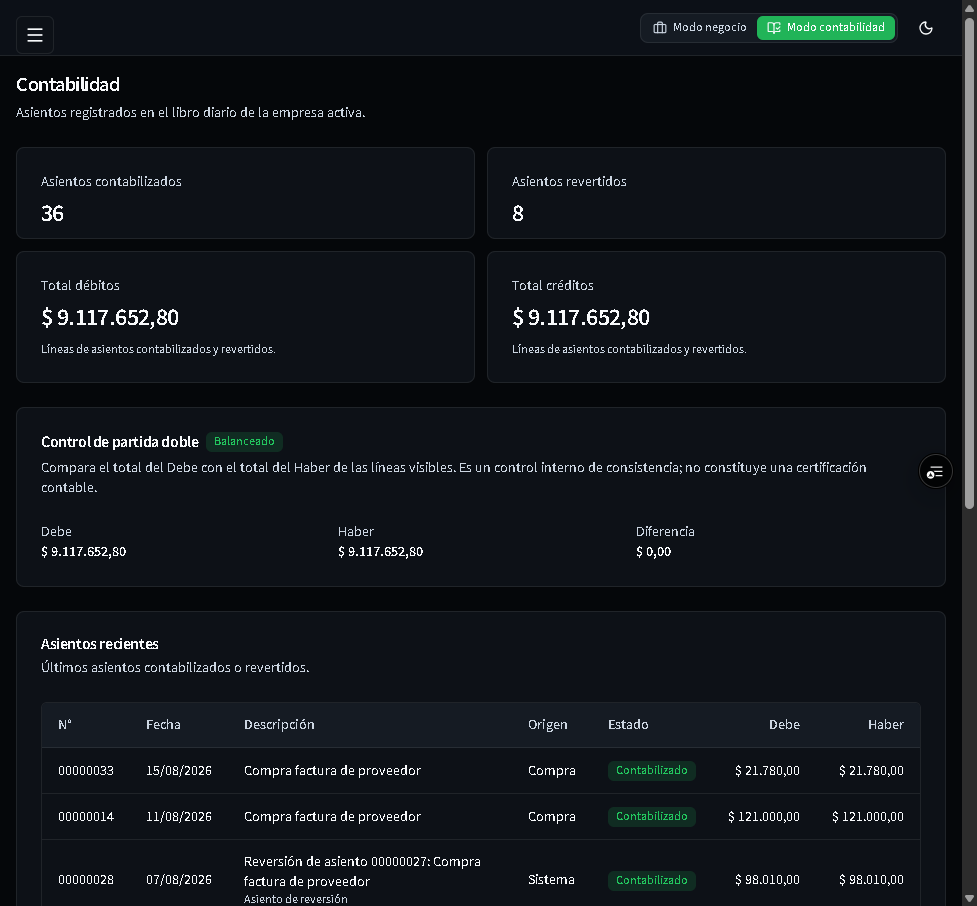
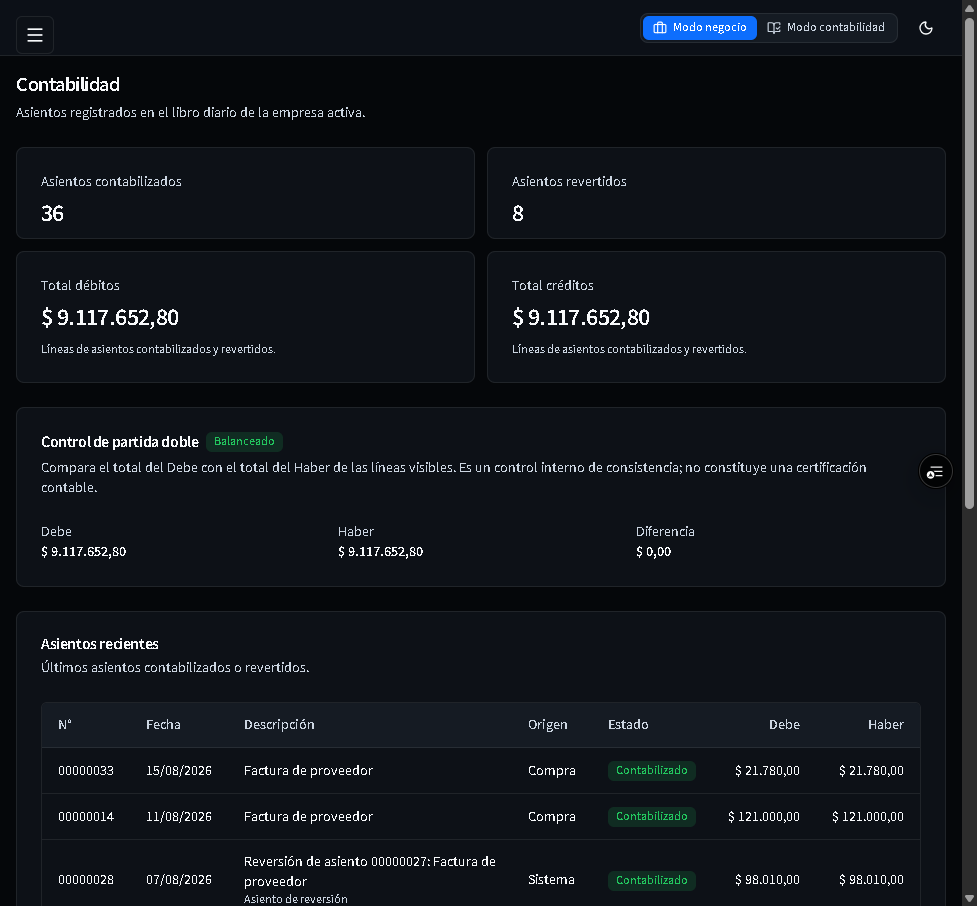
fix(company): honest empty states and load errors; refresh manual screenshots

diff --git a/src/app/(app)/company/page.tsx b/src/app/(app)/company/page.tsx
@@ -8,10 +8,15 @@ import {
   type BusinessType,
   type MemberRole,
 } from "@/config/features";
+import { Card, CardContent, CardDescription, CardHeader, CardTitle } from "@/components/ui/card";
+import { LoadError } from "@/components/demo/module-ui";
+import { formatCuit } from "@/lib/validations/argentina";
 
 const NOT_LOADED = <span className="text-muted-foreground italic">Sin cargar</span>;
-import { Card, CardContent, CardDescription, CardHeader, CardTitle } from "@/components/ui/card";
-import { formatCuit } from "@/lib/validations/argentina";
+
+function yesNo(value: boolean | null | undefined) {
+  return value ? "Sí" : "No";
+}
 
 export default async function CompanyPage() {
   const supabase = await createClient();
@@ -37,17 +42,30 @@ export default async function CompanyPage() {
 
   if (!orgId) redirect("/onboarding");
 
-  const [{ data: org }, { data: fiscal }, { data: business }, { data: branches }] =
-    await Promise.all([
-      supabase.from("organizations").select("*").eq("id", orgId).single(),
-      supabase
-        .from("fiscal_profiles")
-        .select("*, fiscal_conditions ( name_business )")
-        .eq("organization_id", orgId)
-        .maybeSingle(),
-      supabase.from("business_profiles").select("*").eq("organization_id", orgId).maybeSingle(),
-      supabase.from("branches").select("*").eq("organization_id", orgId),
-    ]);
+  const [
+    { data: org, error: orgError },
+    { data: fiscal, error: fiscalError },
+    { data: business, error: businessError },
+    { data: branches, error: branchesError },
+  ] = await Promise.all([
+    supabase.from("organizations").select("*").eq("id", orgId).single(),
+    supabase
+      .from("fiscal_profiles")
+      .select("*, fiscal_conditions ( name_business )")
+      .eq("organization_id", orgId)
+      .maybeSingle(),
+    supabase.from("business_profiles").select("*").eq("organization_id", orgId).maybeSingle(),
+    supabase.from("branches").select("*").eq("organization_id", orgId),
+  ]);
+
+  for (const [scope, error] of [
+    ["organization", orgError],
+    ["fiscal_profile", fiscalError],
+    ["business_profile", businessError],
+    ["branches", branchesError],
+  ] as const) {
+    if (error) console.error("[company] query failed", { scope, code: error.code });
+  }
 
   const role = membership?.find((m) => m.organization_id === orgId)?.role as
     | MemberRole
@@ -64,32 +82,42 @@ export default async function CompanyPage() {
 
       <Card>
         <CardHeader>
-          <CardTitle>{org?.legal_name}</CardTitle>
-          <CardDescription>{org?.commercial_name || "Sin nombre comercial"}</CardDescription>
+          <CardTitle>{org?.legal_name ?? "Datos de la empresa"}</CardTitle>
+          {org ? (
+            <CardDescription>{org.commercial_name || "Sin nombre comercial"}</CardDescription>
+          ) : null}
         </CardHeader>
-        <CardContent className="grid gap-2 text-sm sm:grid-cols-2">
-          <p>
-            <span className="text-muted-foreground">CUIT:</span>{" "}
-            {org?.cuit ? formatCuit(org.cuit) : NOT_LOADED}
-          </p>
-          <p>
-            <span className="text-muted-foreground">Provincia:</span> {org?.province || NOT_LOADED}
-          </p>
-          <p>
-            <span className="text-muted-foreground">Ciudad:</span> {org?.city || NOT_LOADED}
-          </p>
-          <p>
-            <span className="text-muted-foreground">Moneda:</span> {org?.base_currency}
-          </p>
-          <p>
-            <span className="text-muted-foreground">Condición:</span>{" "}
-            {(fiscal?.fiscal_conditions as unknown as { name_business?: string } | null)
-              ?.name_business || NOT_LOADED}
-          </p>
-          <p>
-            <span className="text-muted-foreground">Domicilio fiscal:</span>{" "}
-            {fiscal?.fiscal_address || NOT_LOADED}
-          </p>
+        <CardContent>
+          {orgError || fiscalError || !org ? (
+            <LoadError />
+          ) : (
+            <div className="grid gap-2 text-sm sm:grid-cols-2">
+              <p>
+                <span className="text-muted-foreground">CUIT:</span>{" "}
+                {org.cuit ? formatCuit(org.cuit) : NOT_LOADED}
+              </p>
+              <p>
+                <span className="text-muted-foreground">Provincia:</span>{" "}
+                {org.province || NOT_LOADED}
+              </p>
+              <p>
+                <span className="text-muted-foreground">Ciudad:</span> {org.city || NOT_LOADED}
+              </p>
+              <p>
+                <span className="text-muted-foreground">Moneda:</span>{" "}
+                {org.base_currency || NOT_LOADED}
+              </p>
+              <p>
+                <span className="text-muted-foreground">Condición:</span>{" "}
+                {(fiscal?.fiscal_conditions as unknown as { name_business?: string } | null)
+                  ?.name_business || NOT_LOADED}
+              </p>
+              <p>
+                <span className="text-muted-foreground">Domicilio fiscal:</span>{" "}
+                {fiscal?.fiscal_address || NOT_LOADED}
+              </p>
+            </div>
+          )}
         </CardContent>
       </Card>
 
@@ -98,12 +126,18 @@ export default async function CompanyPage() {
           <CardTitle>Sucursales</CardTitle>
         </CardHeader>
         <CardContent className="space-y-2 text-sm">
-          {(branches ?? []).map((b) => (
-            <div key={b.id} className="rounded-md border border-border px-3 py-2">
-              {b.name}
-              {b.is_main ? " · Principal" : ""}
-            </div>
-          ))}
+          {branchesError ? (
+            <LoadError />
+          ) : (branches ?? []).length === 0 ? (
+            <p className="text-muted-foreground">Todavía no hay sucursales cargadas.</p>
+          ) : (
+            (branches ?? []).map((b) => (
+              <div key={b.id} className="rounded-md border border-border px-3 py-2">
+                {b.name}
+                {b.is_main ? " · Principal" : ""}
+              </div>
+            ))
+          )}
         </CardContent>
       </Card>
 
@@ -112,18 +146,29 @@ export default async function CompanyPage() {
           <CardTitle>Perfil del negocio</CardTitle>
           <CardDescription>Respuestas del alta inicial</CardDescription>
         </CardHeader>
-        <CardContent className="grid gap-2 text-sm sm:grid-cols-2">
-          <p>
-            Tipo:{" "}
-            {business?.business_type
-              ? BUSINESS_TYPE_LABELS[business.business_type as BusinessType] ?? business.business_type
-              : NOT_LOADED}
-          </p>
-          <p>Productos: {business?.sells_products ? "Sí" : "No"}</p>
-          <p>Servicios: {business?.sells_services ? "Sí" : "No"}</p>
-          <p>Inventario: {business?.manages_inventory ? "Sí" : "No"}</p>
-          <p>Empleados: {business?.has_employees ? "Sí" : "No"}</p>
-          <p>Multi-sucursal: {business?.has_multiple_branches ? "Sí" : "No"}</p>
+        <CardContent className="text-sm">
+          {businessError ? (
+            <LoadError />
+          ) : !business ? (
+            <p className="text-muted-foreground" data-testid="business-profile-empty">
+              Todavía no se completó el perfil del negocio.
+            </p>
+          ) : (
+            <div className="grid gap-2 sm:grid-cols-2">
+              <p>
+                Tipo:{" "}
+                {business.business_type
+                  ? BUSINESS_TYPE_LABELS[business.business_type as BusinessType] ??
+                    business.business_type
+                  : NOT_LOADED}
+              </p>
+              <p>Productos: {yesNo(business.sells_products)}</p>
+              <p>Servicios: {yesNo(business.sells_services)}</p>
+              <p>Inventario: {yesNo(business.manages_inventory)}</p>
+              <p>Empleados: {yesNo(business.has_employees)}</p>
+              <p>Multi-sucursal: {yesNo(business.has_multiple_branches)}</p>
+            </div>
+          )}
         </CardContent>
       </Card>
     </div>

diff --git a/tests/unit/demo-modules/company-page.test.ts b/tests/unit/demo-modules/company-page.test.ts
@@ -1,0 +1,60 @@
+/**
+ * Company page: missing data reads as "Sin cargar"/empty states, never as fake
+ * answers, and failed queries surface an error instead of blank values.
+ */
+import { describe, it, expect, vi } from "vitest";
+import { renderToStaticMarkup } from "react-dom/server";
+import { createFakeSupabase, OWNER, ORG_A, demoDb, type FakeDb } from "../../helpers/fake-supabase";
+
+const state: { client: unknown; cookies: Map<string, string> } = { client: null, cookies: new Map() };
+
+vi.mock("@/lib/supabase/server", () => ({ createClient: async () => state.client }));
+vi.mock("next/headers", () => ({
+  cookies: async () => ({
+    get: (name: string) =>
+      state.cookies.has(name) ? { name, value: state.cookies.get(name) } : undefined,
+  }),
+}));
+vi.mock("next/navigation", () => ({
+  redirect: (to: string) => {
+    throw new Error(`REDIRECT:${to}`);
+  },
+}));
+
+import CompanyPage from "@/app/(app)/company/page";
+import { ACTIVE_ORG_COOKIE } from "@/lib/authz/context";
+
+async function render(db: FakeDb, failTables?: string[]) {
+  state.client = createFakeSupabase(db, OWNER, { failTables }).client;
+  state.cookies = new Map([[ACTIVE_ORG_COOKIE, ORG_A]]);
+  return renderToStaticMarkup(await CompanyPage());
+}
+
+describe("company page", () => {
+  it("shows empty states instead of fabricated profile answers", async () => {
+    const html = await render(demoDb());
+    expect(html).toContain("EMPRESA DEMO ARGENTINA SA");
+    expect(html).toContain("Sin cargar");
+    expect(html).toContain("Todavía no se completó el perfil del negocio.");
+    expect(html).not.toContain("Productos: No");
+    expect(html).toContain("Todavía no hay sucursales cargadas.");
+  });
+
+  it("translates the business type when the profile exists", async () => {
+    const db = demoDb();
+    db.business_profiles = [
+      { id: "bp", organization_id: ORG_A, business_type: "retail", sells_products: true, sells_services: false, manages_inventory: true, has_employees: false, has_multiple_branches: false },
+    ];
+    const html = await render(db);
+    expect(html).toContain("Comercio minorista");
+    expect(html).not.toContain(">retail<");
+    expect(html).toContain("Productos: Sí");
+  });
+
+  it("surfaces query failures without leaking internals", async () => {
+    const html = await render(demoDb(), ["business_profiles", "branches"]);
+    expect(html.match(/data-testid="module-load-error"/g)?.length).toBe(2);
+    expect(html).not.toContain("secret detail");
+    expect(html).not.toContain("Todavía no se completó el perfil del negocio.");
+  });
+});

diff --git a/tests/helpers/fake-supabase.ts b/tests/helpers/fake-supabase.ts
@@ -26,6 +26,7 @@ const RELATIONS: Relation[] = [
   { name: "organization_members_organization_id_fkey", from: "organization_members", to: "organizations", local: "organization_id", foreign: "id" },
   { name: "organization_members_user_id_fkey", from: "organization_members", to: "profiles", local: "user_id", foreign: "id" },
   { name: "organization_members_invited_by_fkey", from: "organization_members", to: "profiles", local: "invited_by", foreign: "id" },
+  { name: "fiscal_profiles_fiscal_condition_id_fkey", from: "fiscal_profiles", to: "fiscal_conditions", local: "fiscal_condition_id", foreign: "id" },
   { name: "counterparty_roles_counterparty_id_fkey", from: "counterparty_roles", to: "counterparties", local: "counterparty_id", foreign: "id" },
   { name: "journal_entry_lines_journal_entry_id_fkey", from: "journal_entry_lines", to: "journal_entries", local: "journal_entry_id", foreign: "id" },
   { name: "journal_entry_lines_account_id_fkey", from: "journal_entry_lines", to: "accounts", local: "account_id", foreign: "id" },
@@ -215,6 +216,14 @@ export function createFakeSupabase(
         const r = run();
         if ("error" in r) return { data: null, error: r.error };
         return { data: r.rows[0] ?? null, error: null };
+      },
+      async single() {
+        const failure = forcedError(table, columns);
+        if (failure) return { data: null, error: failure };
+        const r = run();
+        if ("error" in r) return { data: null, error: r.error };
+        if (r.rows.length !== 1) return { data: null, error: { code: "PGRST116", message: "not single" } };
+        return { data: r.rows[0], error: null };
       },
       insert(row: Row) {
         inserts.push({ table, row });

diff --git a/docs/manual/MANUAL-DE-USO.md b/docs/manual/MANUAL-DE-USO.md
@@ -248,7 +248,7 @@ El recuadro amarillo recuerda que la información es demostrativa y que no const
 
 ![Sección Empresa](img/16-empresa.png)
 
-Muestra los datos de la empresa activa (razón social, nombre comercial, CUIT, provincia, ciudad, moneda, condición fiscal, domicilio), sus **sucursales** y el **perfil del negocio** cargado en el alta. También indica tu rol en esa empresa. **Sin cargar** indica que ese dato todavía no se completó.
+Muestra los datos de la empresa activa (razón social, nombre comercial, CUIT, provincia, ciudad, moneda, condición fiscal, domicilio), sus **sucursales** y el **perfil del negocio** cargado en el alta. También indica tu rol en esa empresa. **Sin cargar** indica que ese dato todavía no se completó. Si el perfil del negocio no se respondió en el alta, la pantalla lo dice en lugar de mostrar respuestas.
 
 ### Usuarios
 
